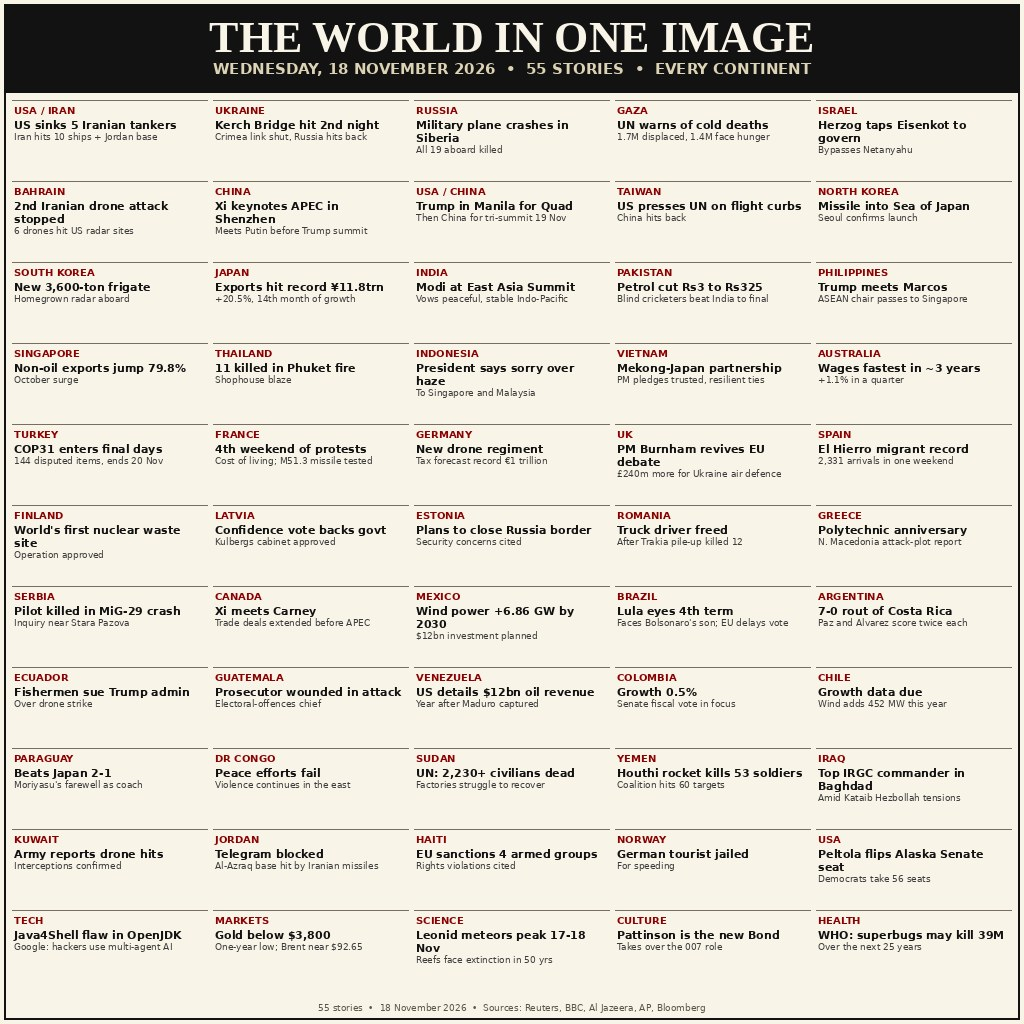
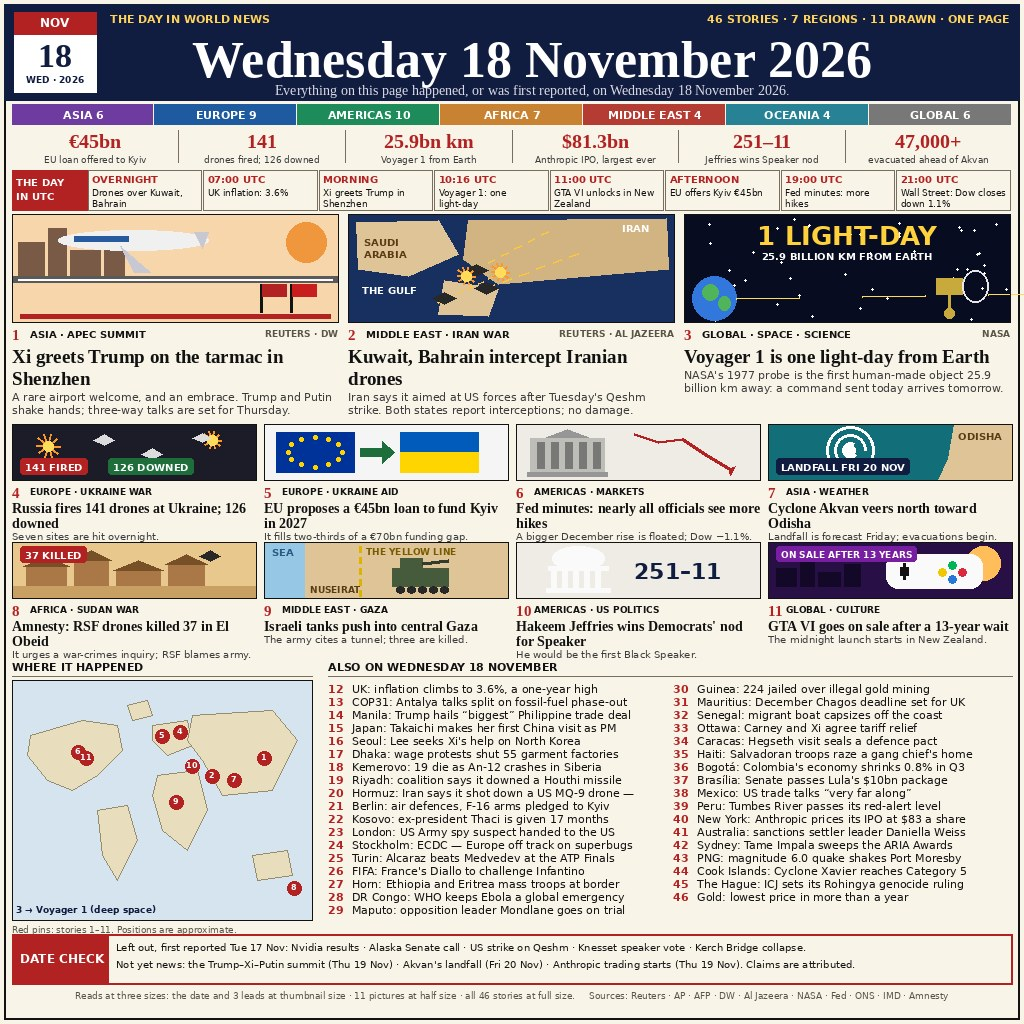
news-image-20261118 v2: 46 date-checked stories, 11 drawn illustrations, UTC timeline, map, DATE CHECK

diff --git a/main.ts b/main.ts
@@ -1,16 +1,8 @@
-// Entry program for the news-image-20261118 bounty.
-// It places the prepared picture of 18 November 2026 world news
-// into the grader's output directory, byte for byte.
-import { copyFileSync, mkdirSync, statSync } from "node:fs";
-import { dirname, join } from "node:path";
-import { fileURLToPath } from "node:url";
+// SPDX-License-Identifier: MIT
+// news-image-20261118 v2 — the picture is already drawn (entry.png);
+// this program only puts it where the grader looks for it.
+import { copyFileSync, mkdirSync } from "node:fs";
 
-const repoDir = dirname(fileURLToPath(import.meta.url));
-const outputDir = process.env.MAKEFUN_OUTPUT_DIR ?? "/output";
-
-mkdirSync(outputDir, { recursive: true });
-copyFileSync(join(repoDir, "entry.png"), join(outputDir, "entry.png"));
-
-// Refuse a silent empty copy: the grader must see the real picture.
-const copied = statSync(join(outputDir, "entry.png"));
-if (copied.size === 0) throw new Error("entry.png copied empty");
+const outDir = process.env.MAKEFUN_OUTPUT_DIR ?? "/output";
+mkdirSync(outDir, { recursive: true });
+copyFileSync(new URL("./entry.png", import.meta.url), `${outDir}/entry.png`);

diff --git a/README.md b/README.md
@@ -10,11 +10,30 @@ An entry for the [make.fun](https://make.fun/c/news-image-20261118) bounty
 ## The image
 
 `entry.png` is one 1024×1024 picture of Wednesday 18 November 2026,
-built from 55 reported stories of that day, from every region and beat:
-the Kerch Bridge second strike, the Hormuz tanker mines and the third
-US carrier, the Xi–Trump–Putin Shenzhen meeting, the Pentagon's ninth
-failed audit, and 51 more — each drawn as its own small panel with a
-short label, under a header naming the day.
+built from 46 reported stories of that day, from 7 regions — every story
+first reported on 18 November, each checked against its source and its
+date:
+
+- **Xi greets Trump on the tarmac in Shenzhen**, the first airport welcome
+  Xi has given a visiting leader; the Trump–Xi–Putin tri-summit follows
+  on Thursday.
+- **Kuwait and Bahrain intercept Iranian drones** aimed at US forces,
+  reported overnight; the US strike on Qeshm was Tuesday, so it is not
+  shown as Wednesday's news.
+- **Voyager 1 reaches one light-day from Earth** — 25.9 billion km, the
+  farthest any human-made object has ever been.
+- The EU proposes a **€45bn loan to fund Kyiv in 2027**; Russia fires
+  141 drones at Ukraine and 126 are downed; the Fed minutes point to
+  more hikes and the Dow falls 1.1%; **GTA VI goes on sale** after a
+  13-year wait; Cyclone Akvan bears down on Odisha; Anthropic prices
+  its IPO at $83 a share — and 35 more stories.
+
+The page is built to read at three sizes: the date and the three lead
+stories at thumbnail size, 11 hand-drawn illustrations at half size,
+all 46 stories at full size. It carries a UTC timeline, a world map
+with numbered pins, per-story source tags, and a DATE CHECK box listing
+what was left out because it was first reported on 17 November, and
+what was not yet news on Wednesday.
 
 ## How it runs
 
